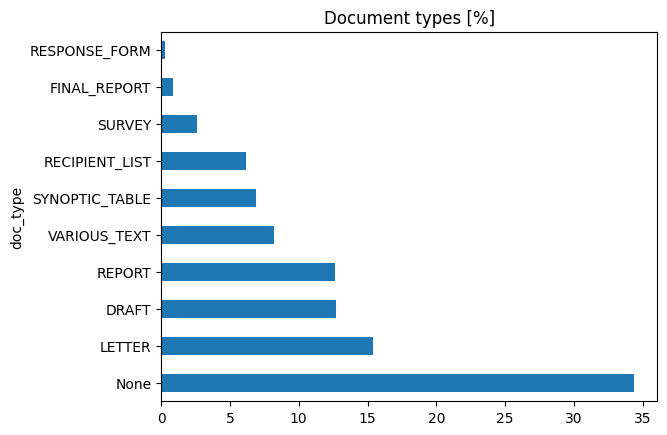
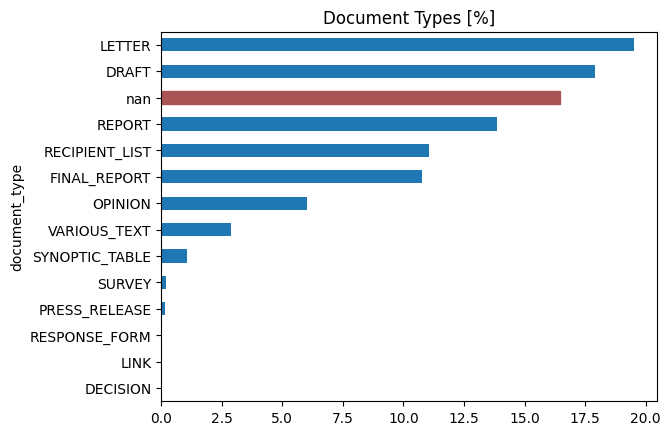
Update the current status of III. document type classification

Changed region(s): [[0.0, 0.0, 0.9895, 0.9862], [0.1199, 0.269, 0.2399, 0.2989]]

diff --git a/README.md b/README.md
@@ -175,39 +175,43 @@ The services typically used for extracting PDFs – AWS Textract, Azure Document
 ### III. Classifying document types
 
 >[!NOTE]
->Latest work on this problem: [PR!8](https://github.com/Demokratis-ch/demokratis-ml/pull/8).
+>Latest work on this problem: [PR!15](https://github.com/Demokratis-ch/demokratis-ml/pull/15).
 
-Each consultation consists of several documents: usually around 5, but sometimes as much as 20 or more. For each document, we're interested in what role it plays in the consultation: is it the actual draft of the proposed change? Is it an accompanying letter or report? (You can see the full list of document types in [demokratis_ml/data/schemata.py:DOCUMENT_TYPES](demokratis_ml/data/schemata.py#L35).)
-
-![A chart showing the frequency of document types in the cantonal dataset](docs/example_document_types.png)
+Each consultation consists of several documents: usually around 5, but sometimes as much as 20 or more. For each document, we're interested in what role it plays in the consultation: is it the actual draft of the proposed change? Is it an accompanying letter or report? (You can see the full list of document types in [demokratis_ml/data/schemata.py:DOCUMENT_TYPES](demokratis_ml/data/schemata.py).)
 
 For federal consultations, we automatically get this label from the Fedlex API. However, cantonal documents do not have roles (types) assigned, so we need to train a model.
 
+![A chart showing the frequency of document types in the cantonal dataset](docs/example_document_types.png)
+
 #### Our datasets
-We labelled a part of the cantonal dataset manually and through weak rules on file names (e.g. label files called 'Adressatenliste.pdf' as `RECIPIENT_LIST`). We also used the entire federal dataset because it comes already labelled.
+We labelled a part of the cantonal dataset manually and through weak rules on file names (e.g. label files called 'Adressatenliste.pdf' as `RECIPIENT_LIST`). We also used the entire federal dataset for training because it comes already labelled.
+
+We merge some of the most underrepresented document types into VARIOUS_TEXT (the "everything else" class) before training and evaluation.
 
 #### Our model
-We embed the documents using OpenAI's `text-embedding-3-large` model and classify those vectors directly with the simple sklearn pipeline of `make_pipeline(StandardScaler(), LogisticRegression())`.
+Our classifier uses three types of features:
+- Document texts embedded with OpenAI's `text-embedding-3-large` model, with reduced dimensions
+- Simple boolean flags extracted by regular expressions on document texts, e.g. "does the text contain a formal greeting like `Sehr\s+geehrte[r]?\s+(?:Frau|Herr|Damen\s+und\s+Herren`?")
+- Some features extracted from the actual PDF documents, e.g. aspect ratio, number of tables, page count,...
+
+We then classify these input vectors with a simple scikit-learn pipeline using `StandardScaler` and `LogisticRegression`.
 
 #### Current results
-When we simplify the task by labelling unknown document types as `VARIOUS_TEXT` in the training set, we currently get weighted **precision, recall, and F1 around 0.87**.
+Only manually labelled cantonal documents are used for this evaluation to ensure that we're benchmarking against the most relevant data.
+In production, the model is only ever used to classify _cantonal_ documents.
 
-<details>
-<summary>Click here to see detailed classification report</summary>
-
-| Class           | Precision | Recall | F1-Score | Support |
-|-----------------|-----------|--------|----------|---------|
-| DRAFT           | 0.86      | 0.82   | 0.84     | 360     |
-| FINAL_REPORT    | 0.96      | 0.94   | 0.95     | 160     |
-| LETTER          | 0.97      | 0.97   | 0.97     | 324     |
-| OPINION         | 0.96      | 0.99   | 0.98     | 83      |
-| RECIPIENT_LIST  | 0.97      | 0.97   | 0.97     | 207     |
-| REPORT          | 0.86      | 0.86   | 0.86     | 296     |
-| RESPONSE_FORM   | 0.00      | 0.00   | 0.00     | 3       |
-| SURVEY          | 0.74      | 0.83   | 0.78     | 24      |
-| SYNOPTIC_TABLE  | 0.75      | 0.68   | 0.71     | 66      |
-| VARIOUS_TEXT    | 0.72      | 0.75   | 0.74     | 375     |
-| **Accuracy**    |           |        | 0.87     | 1898    |
-| **Macro Avg**   | 0.78      | 0.78   | 0.78     | 1898    |
-| **Weighted Avg**| 0.87      | 0.87   | 0.87     | 1898    |
-</details>
+| Label           | Precision | Recall | F1-Score | Support |
+|----------------|-----------|--------|----------|---------|
+| DRAFT          | 0.74      | 0.77   | 0.75     | 52      |
+| FINAL_REPORT   | 0.73      | 0.61   | 0.67     | 18      |
+| LETTER         | 0.96      | 1.00   | 0.98     | 72      |
+| OPINION        | 0.33      | 0.33   | 0.33     | 3       |
+| RECIPIENT_LIST | 1.00      | 1.00   | 1.00     | 38      |
+| REPORT         | 0.80      | 0.82   | 0.81     | 85      |
+| SURVEY         | 1.00      | 0.67   | 0.80     | 9       |
+| SYNOPTIC_TABLE | 0.88      | 0.95   | 0.92     | 40      |
+| VARIOUS_TEXT   | 0.72      | 0.65   | 0.69     | 55      |
+| &nbsp; | &nbsp; | &nbsp; | &nbsp; | &nbsp; |
+| Accuracy       |           |        | 0.84     | 372     |
+| Macro Avg      | 0.80      | 0.76   | 0.77     | 372     |
+| Weighted Avg   | 0.84      | 0.84   | 0.84     | 372     |
